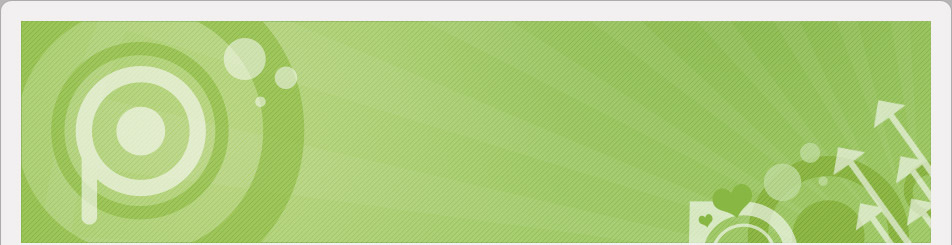
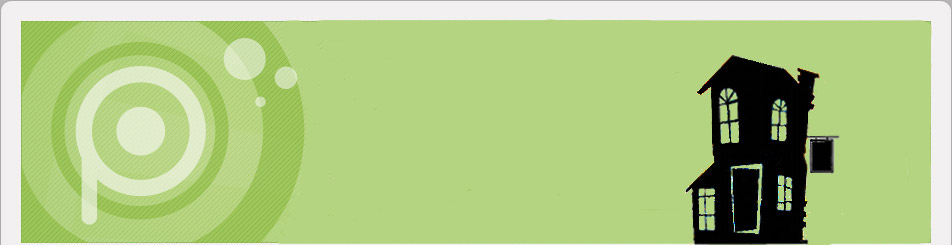
changed headerbar

diff --git a/public/stylesheets/screen.css b/public/stylesheets/screen.css
@@ -205,7 +205,7 @@ input.button {
 	position: relative;
 	width: 952px;
 	height: 245px;
-	background: #8AB84B url(../images/header_new.jpg) no-repeat;	
+	background: #8AB84B url(../images/header.jpg) no-repeat;	
 	color: #fff;	
 	padding: 0;	
 	margin: 0;	
@@ -237,7 +237,7 @@ input.button {
  	position: absolute;
 	margin: 0;
 	padding: 30px 15px 8px 15px;
-	background: #74A838 url(../images/top-menu.gif) repeat-x;
+	background: #978060 url(../images/top-menu-2.gif) repeat-x;
 	font-family: 'Trebuchet MS', Arial, Sans-serif;
 	color: #FFF;
 	
